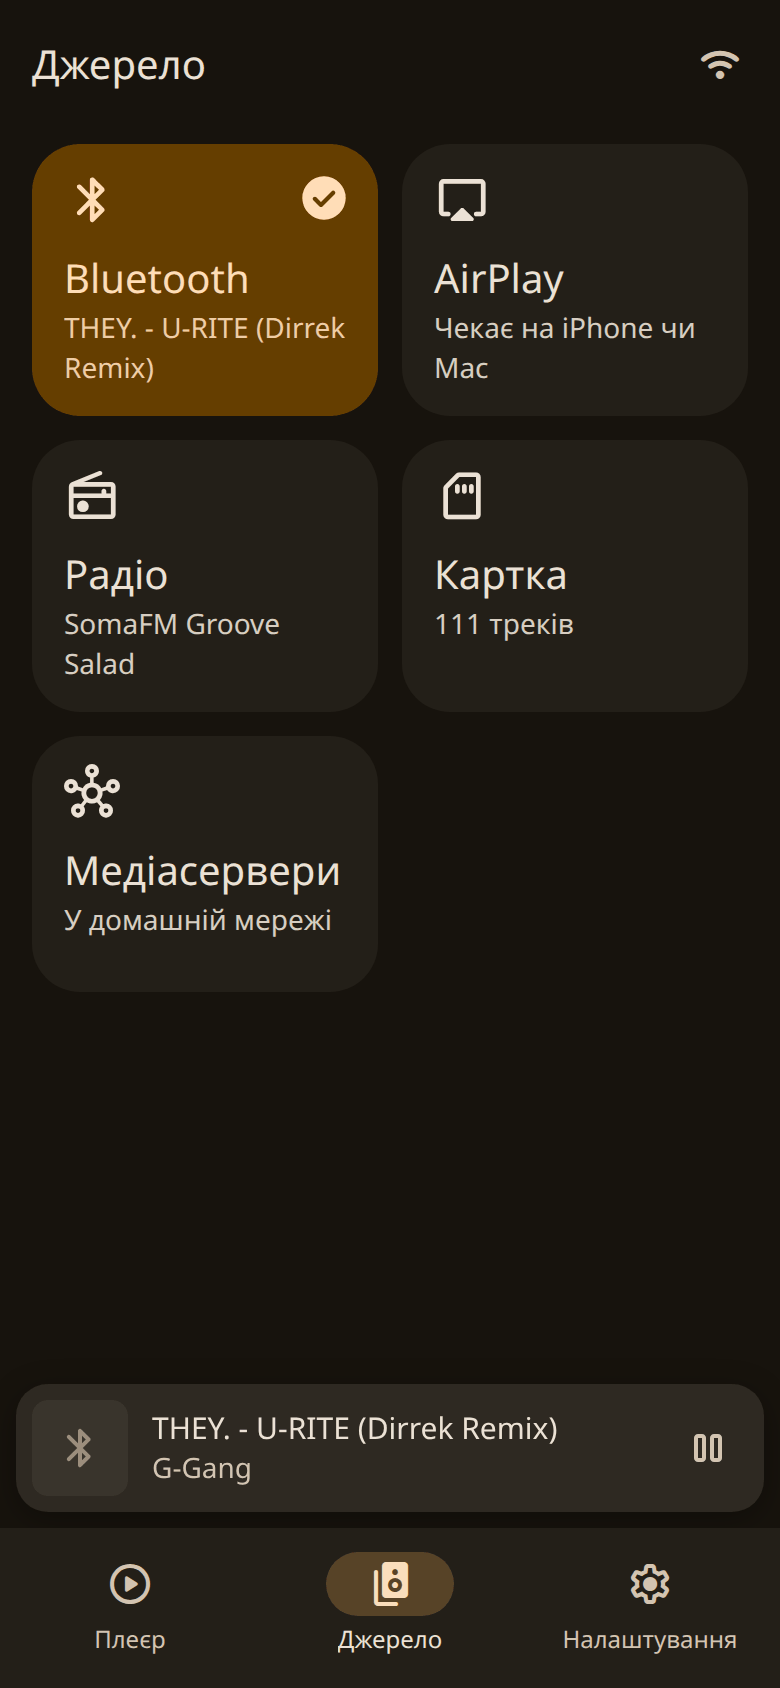
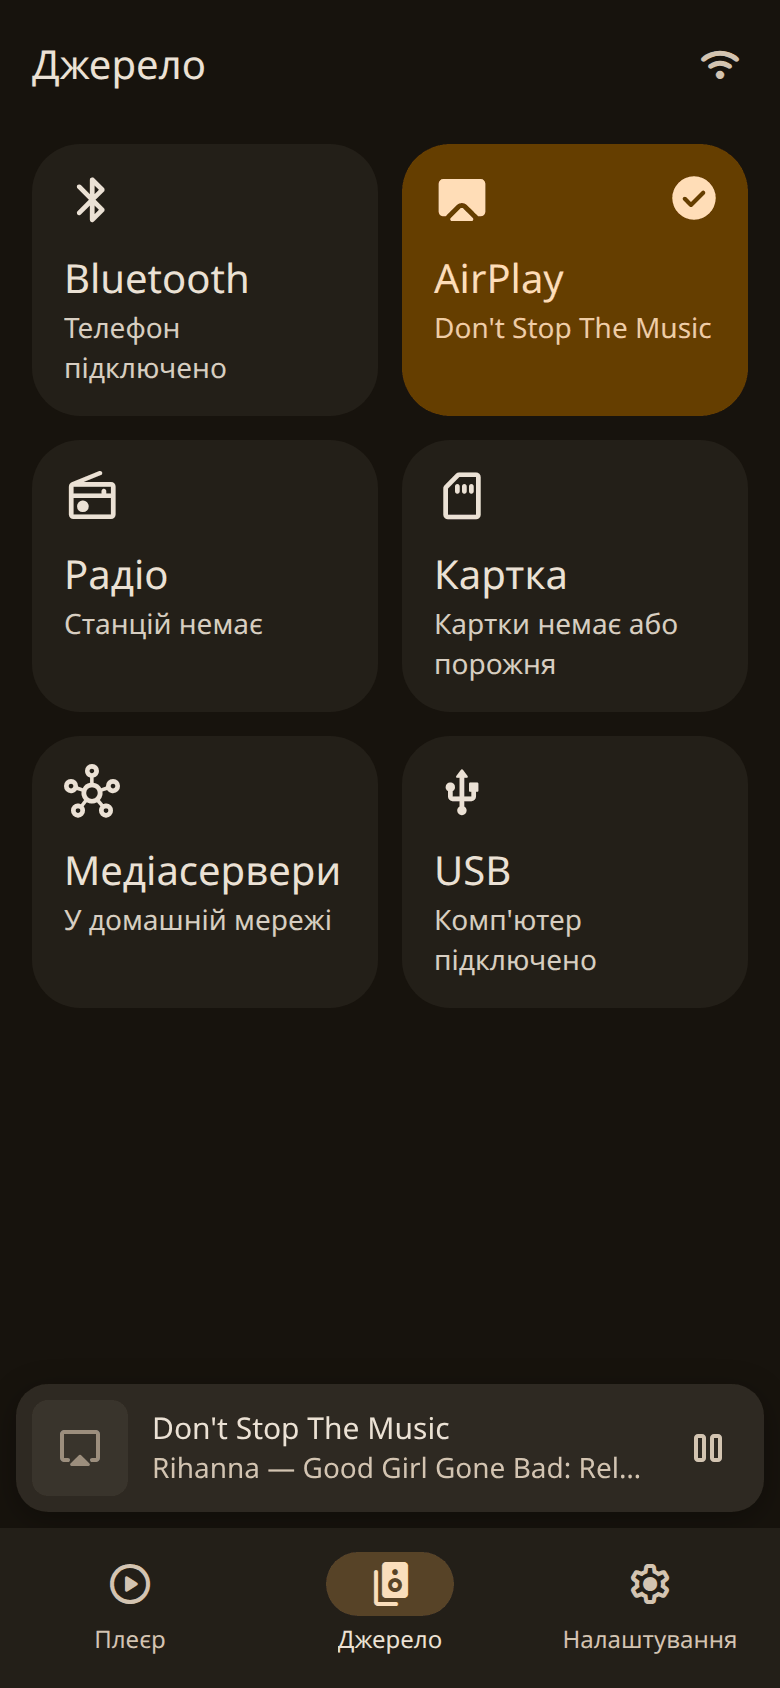
docs(readme): AirPlay on the player, the real web interface
From the development repository at 2357ba5: the panel's player while an iPhone
plays over AirPlay, and the web interface as the panel serves it (USB included),
in English and Ukrainian, album covers blurred.

diff --git a/README.md b/README.md
@@ -21,16 +21,20 @@ The panel, 800×480:
 
 <table>
 <tr>
-<td><img src="docs/img/screens/panel-player.png" alt="Player"></td>
+<td><img src="docs/img/screens/panel-player.png" alt="Player, Bluetooth"></td>
+<td><img src="docs/img/screens/panel-player-airplay.png" alt="Player, AirPlay"></td>
+</tr>
+<tr>
 <td><img src="docs/img/screens/panel-source.png" alt="Source"></td>
-</tr>
-<tr>
 <td><img src="docs/img/screens/panel-equalizer.png" alt="Equalizer"></td>
-<td><img src="docs/img/screens/panel-speakers.png" alt="Speakers"></td>
 </tr>
 <tr>
+<td><img src="docs/img/screens/panel-speakers.png" alt="Speakers"></td>
 <td><img src="docs/img/screens/panel-stations.png" alt="Stations"></td>
+</tr>
+<tr>
 <td><img src="docs/img/screens/panel-settings.png" alt="Settings"></td>
+<td><img src="docs/img/screens/panel-tone.png" alt="Tone"></td>
 </tr>
 </table>
 
